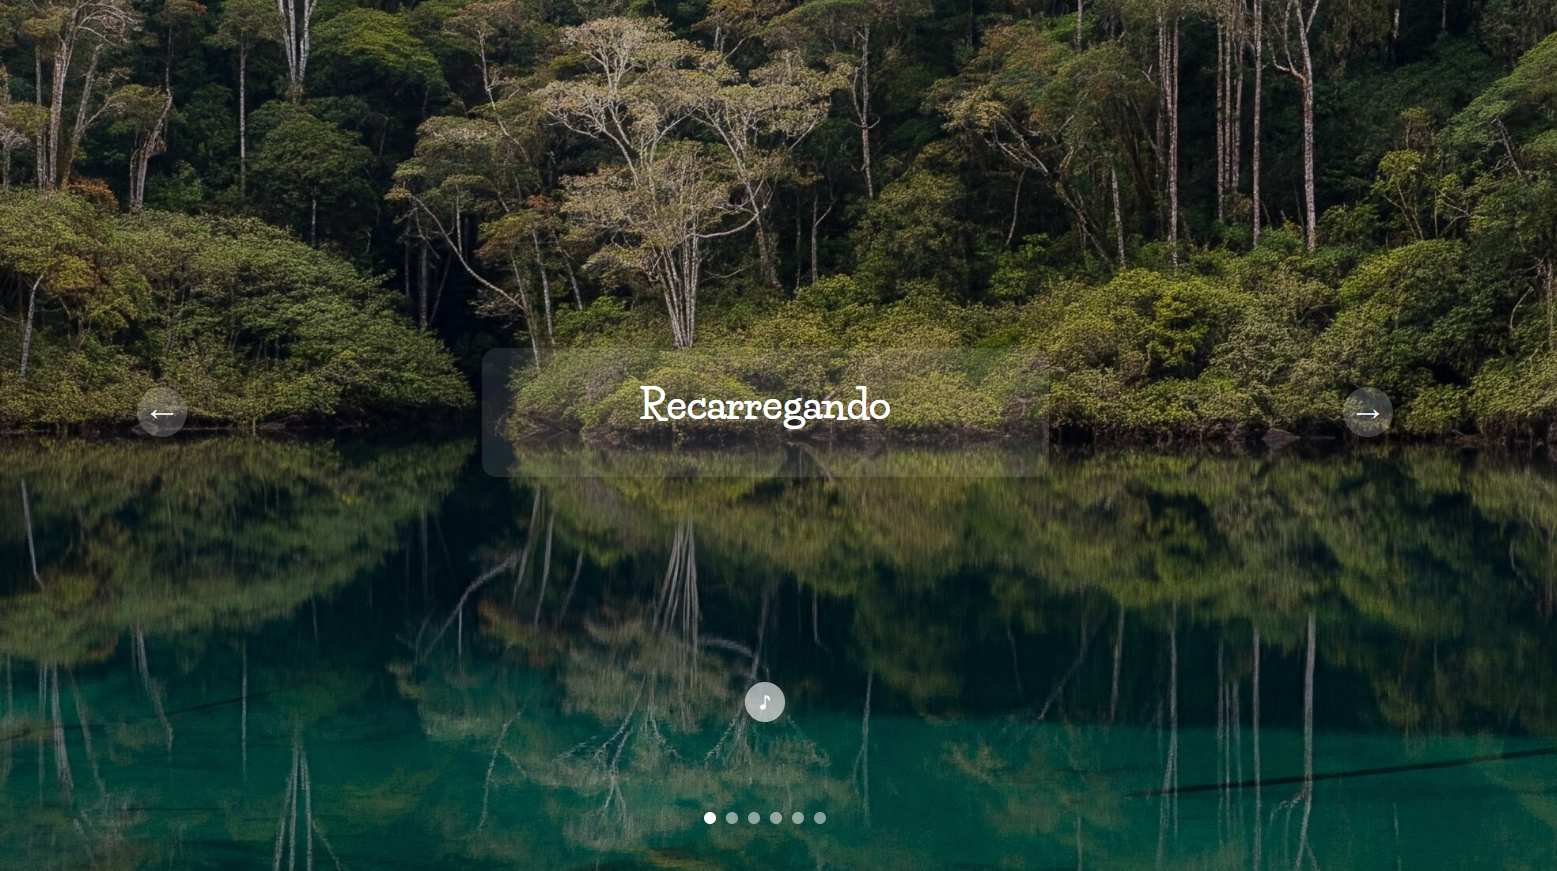
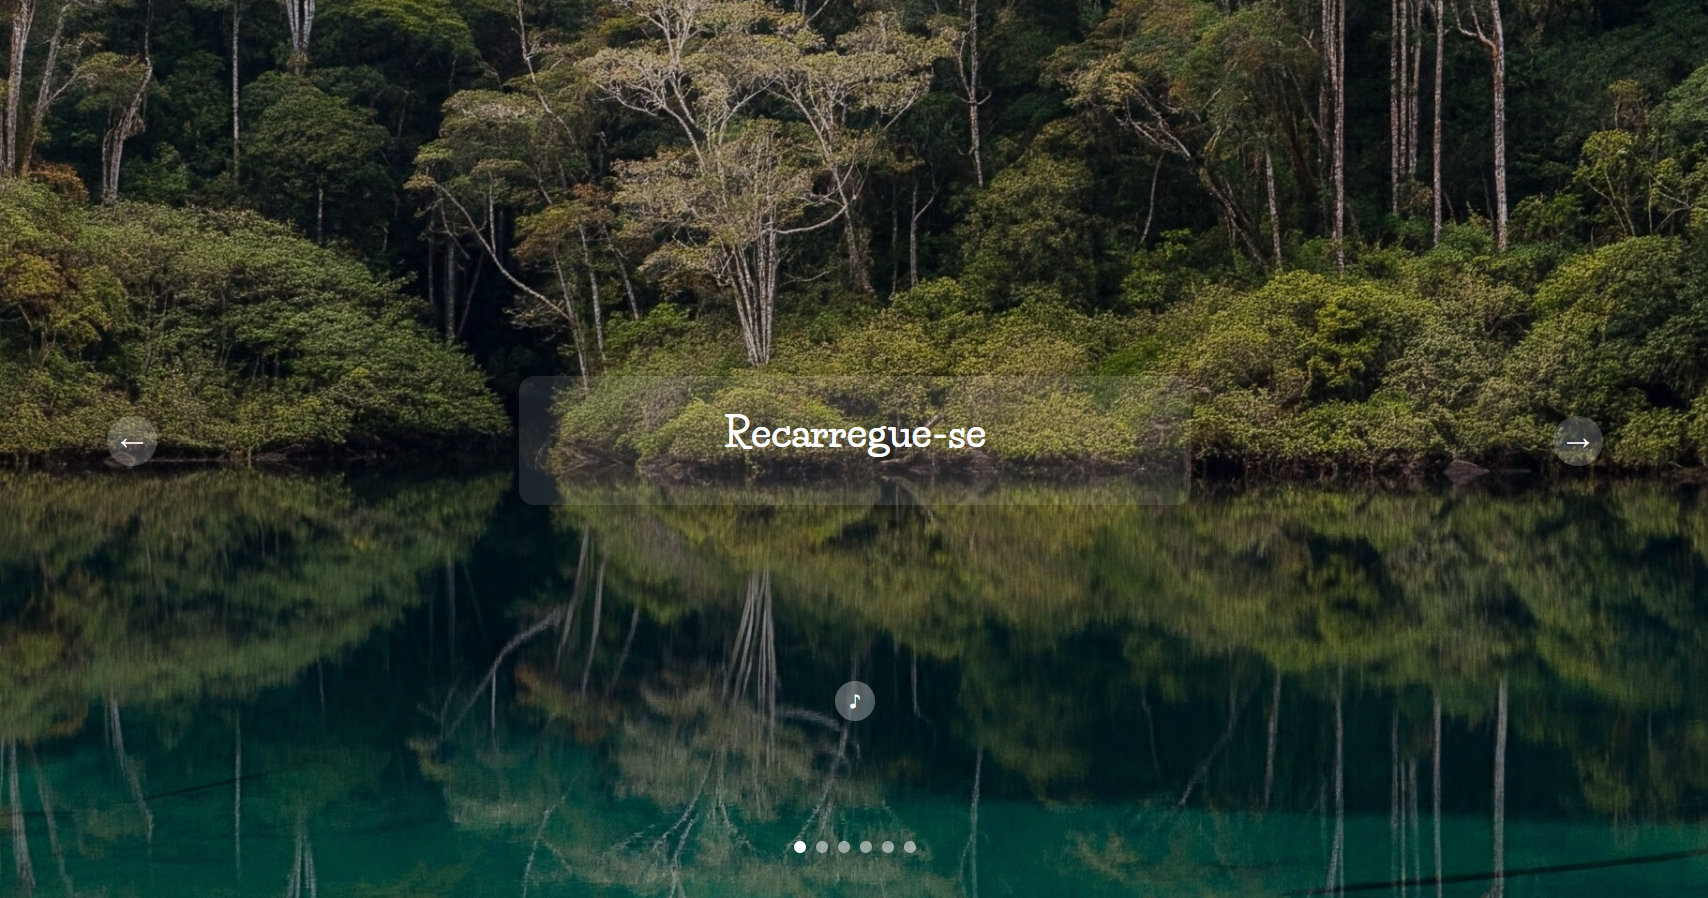
fix: Name, background image;

diff --git a/index.html b/index.html
@@ -1,5 +1,5 @@
 <!DOCTYPE html>
-<html lang="en">
+<html lang="pt-br">
 
 <head>
     <meta charset="UTF-8">
@@ -10,14 +10,14 @@
     <link rel="preconnect" href="https://fonts.gstatic.com" crossorigin>
     <link href="https://fonts.googleapis.com/css2?family=Life+Savers:wght@400;700;800&display=swap" rel="stylesheet">
     <!-- title -->
-    <title>Recarregando</title>
+    <title>Recarregue-se</title>
 </head>
 
 <body>
     <div class="slider-container">
         <div class="slide active">
             <div class="slide-content">
-                <h2>Recarregando</h2>
+                <h2>Recarregue-se</h2>
             </div>
         </div>
         <div class="slide">

diff --git a/readme.md b/readme.md
@@ -31,8 +31,8 @@ Este projeto é uma espécie de continuação do projeto com dicas para os afeta
 🎓 Análise de Sistemas - Cruzeiro do Sul <br>
 💻 Estudante FullStack: DevClub <br>
 👩🏻💻 Autor do Site: <a href="https://igorlazzaretti.com/" style="color:pink">igorlazzaretti.com</a> <br>
-📚 Leitor e Estudante de Inglês <br> 
-🧙♂ Fã de Harry Potter  <br> 
+📚 Leitor e Estudante de Inglês <br>
+🧙♂ Fã de Harry Potter  <br>
 
 <div align="center" >
 <img src="https://img.shields.io/badge/website-000000?style=for-the-badge&logo=About.me&logoColor=white" title="Meu Site Portifólio" alt="Meu Site Portifólio" width="110" height="27"/>
@@ -63,7 +63,7 @@ Este projeto é uma espécie de continuação do projeto com dicas para os afeta
 
 ##  -->
 
-<br>
+<br> <br>
 
 <div align="center">
 
